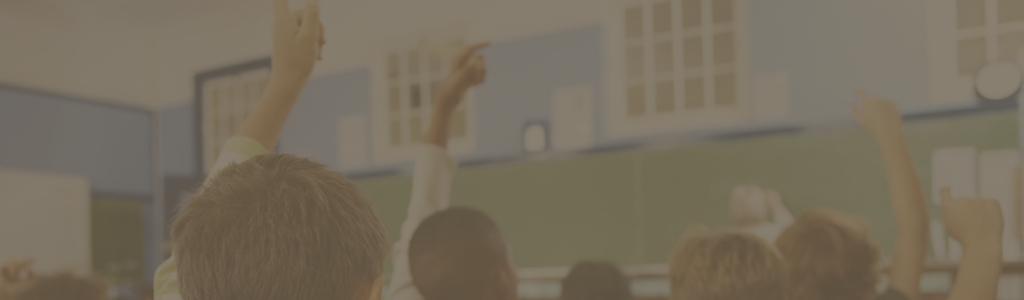
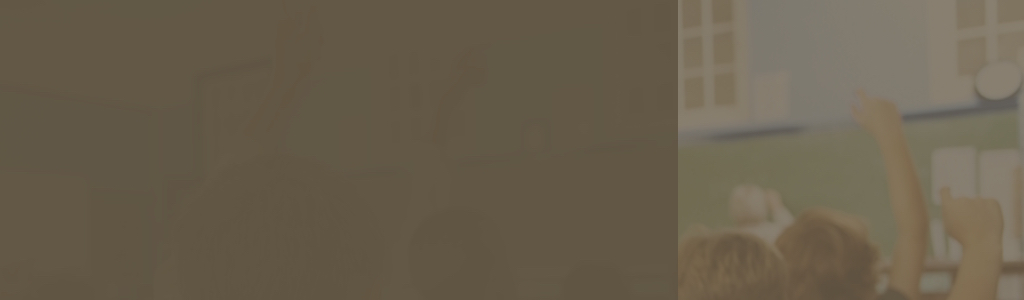
style:  Add styling

diff --git a/vagrant/catalog/static/styles.css b/vagrant/catalog/static/styles.css
@@ -5,8 +5,8 @@
 
 h1 {
 	font-family: "Helvetica Neue Light", Roboto, Helvetica, Arial, sans-serif;
-	font-size: 50px;
-	color: white;
+	font-size: 55px;
+	color: #fcd775;
 	line-height: 60px;
 	font-weight: 300;
 }
@@ -100,7 +100,7 @@ h3 {
 }
 .banner.main {
 	height: 150px;
-	background: url("/static/banner.jpg");
+	background: url("/static/schools.jpg");
 	background-position: right;
 	background-repeat: no-repeat;
 	background-size: cover;
@@ -115,7 +115,7 @@ h3 {
 }
 .banner.school {
 	height: 150px;
-	background: url("/static/banner2.jpg");
+	background: url("/static/school.jpg");
 	background-position: right;
 	background-repeat: no-repeat;
 	background-size: cover;
@@ -129,14 +129,28 @@ h3 {
 }
 .banner.classroom {
 	height: 150px;
-	background: url("/static/classbanner.jpg");
+	background: url("/static/classes.jpg");
+	background-position: right;
+	background-repeat: no-repeat;
+	background-size: cover;
+}
+.banner.class {
+	height: 150px;
+	background: url("/static/class.jpg");
+	background-position: right;
+	background-repeat: no-repeat;
+	background-size: cover;
+}
+.banner.genre {
+	height: 150px;
+	background: url("/static/genre.jpg");
 	background-position: right;
 	background-repeat: no-repeat;
 	background-size: cover;
 }
 .banner h1 {
 	margin: 45px 0;
-    color: #f0f0f0;
+    color: #f7e3af;
 }
  .restaurant-list {
  	background-color: #F0F0F0;
@@ -167,7 +181,7 @@ u }
 }
 .creator figcaption {
 	font-size: 14px;
-	color: #7B7573;
+	color: white;
 	font-weight: 400;
 	margin-top: -20px;
 }

diff --git a/vagrant/catalog/templates/class/classroom.html b/vagrant/catalog/templates/class/classroom.html
@@ -2,12 +2,12 @@
 <div class="row divider green">
     <div class="col-md-12"></div>
 </div>
-<div class="row banner menu">
+<div class="row banner classroom">
     <div class="col-md-11 col-md-offset-1 padding-none">
-        <h1>{{ teacher.name }} <small>{{classroom.name}}</small>
+        <h1>{{ teacher.name }} <small style="color: white">{{classroom.name}}</small>
 			<figure class="creator">
 				<img src="{{teacher.picture}}">
-				<figcaption>Teacher</figcaption>
+				<figcaption style="color: white">Teacher</figcaption>
 			</figure>
 			<br />
 			<a href="{{url_for('teachernewstudent', school_id=teacher.school_id, teacher_id=teacher.id)}}">

diff --git a/vagrant/catalog/templates/public/classroom.html b/vagrant/catalog/templates/public/classroom.html
@@ -2,12 +2,12 @@
 <div class="row divider green">
     <div class="col-md-12"></div>
 </div>
-<div class="row banner menu">
+<div class="row banner classroom">
     <div class="col-md-11 col-md-offset-1 padding-none">
-        <h1>{{ teacher.name }} <small>{{classroom.name}}</small>
+        <h1>{{ teacher.name }} <small style="color: white">{{classroom.name}}</small>
 			<figure class="creator">
 				<img src="{{teacher.picture}}">
-				<figcaption>Teacher</figcaption>
+				<figcaption style="color: white">Teacher</figcaption>
 			</figure>
         </h1>
     </div>

diff --git a/vagrant/catalog/templates/class/classes.html b/vagrant/catalog/templates/class/classes.html
@@ -4,7 +4,7 @@
 <div class="row divider green">
     <div class="col-md-12"></div>
 </div>
-<div class="row banner classroom">
+<div class="row banner class">
     <div class="col-md-11 col-md-offset-1 padding-none">
         <h1>{{ teacher.name }} <small style="color: white">All Classes</small>
 			<figure class="creator">

diff --git a/vagrant/catalog/templates/public/classes.html b/vagrant/catalog/templates/public/classes.html
@@ -4,7 +4,7 @@
 <div class="row divider green">
     <div class="col-md-12"></div>
 </div>
-<div class="row banner classroom">
+<div class="row banner class">
     <div class="col-md-11 col-md-offset-1 padding-none">
         <h1>{{ teacher.name }} <small style="color: white">All Classes</small>
 			<figure class="creator">

diff --git a/vagrant/catalog/templates/genre/lists.html b/vagrant/catalog/templates/genre/lists.html
@@ -2,7 +2,7 @@
 <div class="row divider green">
     <div class="col-md-12"></div>
 </div>
-<div class="row banner menu">
+<div class="row banner genre">
     <div class="col-md-11 col-md-offset-1 padding-none">
         <h1>{{ teacher.name }}
             <small>

diff --git a/vagrant/catalog/templates/public/lists.html b/vagrant/catalog/templates/public/lists.html
@@ -2,7 +2,7 @@
 <div class="row divider green">
     <div class="col-md-12"></div>
 </div>
-<div class="row banner menu">
+<div class="row banner genre">
     <div class="col-md-11 col-md-offset-1 padding-none">
         <h1>{{ teacher.name }}
             <small>

diff --git a/vagrant/catalog/templates/genre/edit.html b/vagrant/catalog/templates/genre/edit.html
@@ -4,7 +4,7 @@
 	<div class="row divider green">
 		<div class="col-md-12"></div>
 	</div>
-	<div class="row banner menu">
+	<div class="row banner genre">
 		<div class="col-md-11 col-md-offset-1 padding-none">
 			<h1>Edit Genre List</h1>
 		</div>

diff --git a/vagrant/catalog/templates/genre/new.html b/vagrant/catalog/templates/genre/new.html
@@ -4,7 +4,7 @@
 	<div class="row divider green">
 		<div class="col-md-12"></div>
 	</div>
-	<div class="row banner menu">
+	<div class="row banner genre">
 		<div class="col-md-11 col-md-offset-1 padding-none">
 			<h1>New Genre List</h1>
 		</div>
